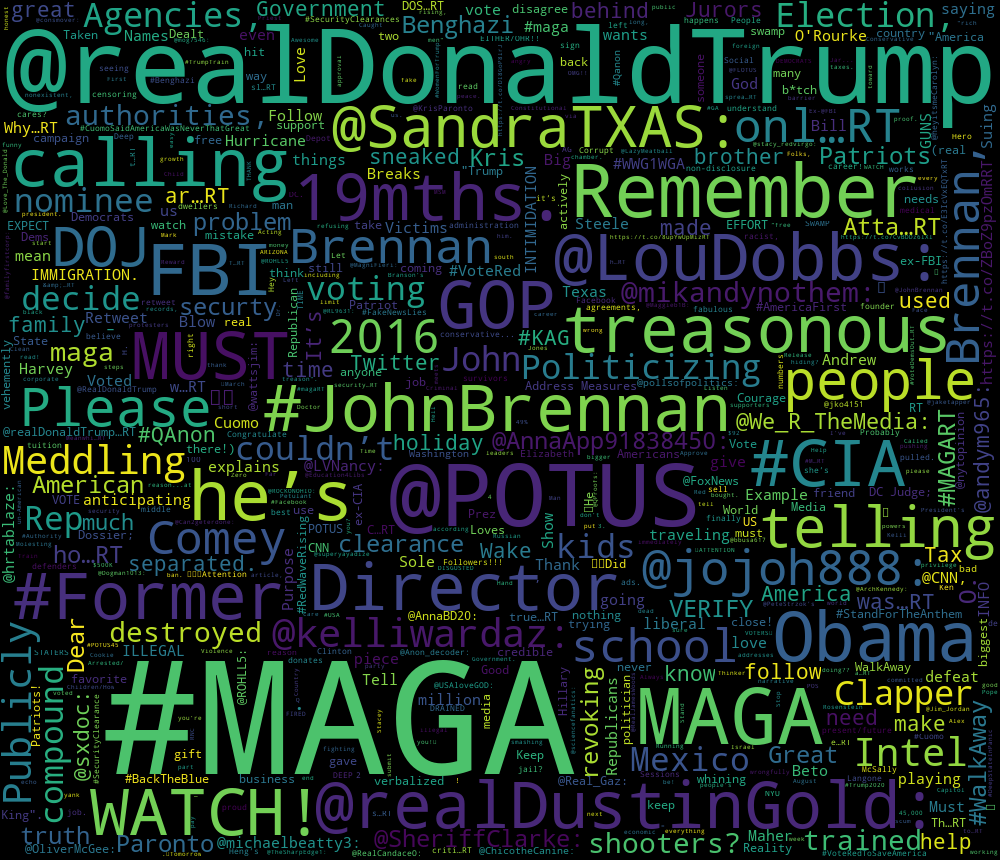
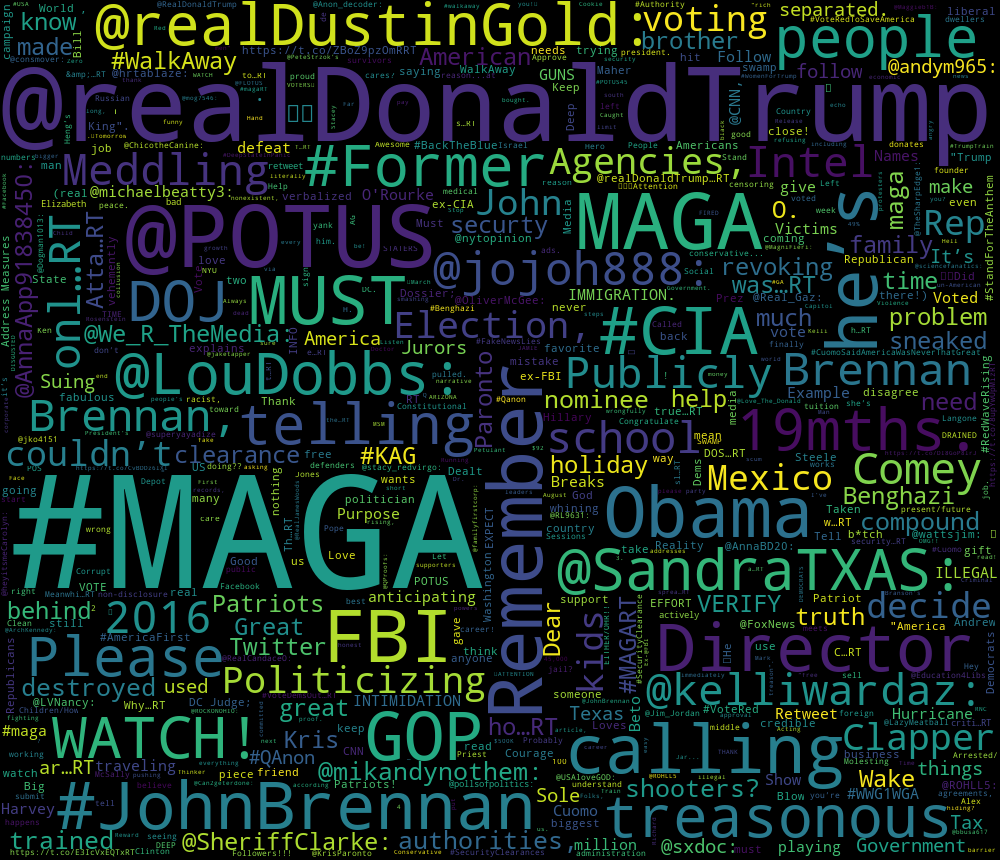
reduced number of words in the wordcloud

diff --git a/streaming_socket.py b/streaming_socket.py
@@ -9,6 +9,8 @@ import random
 from os import path
 import os
 
+# TODO limit the groupby to the same limit as the number of words in the cloud.
+#
 """
 BEFORE running this spark application run the below command in terminal window
 
@@ -48,7 +50,7 @@ def create_word_cloud(pandas_df):
 
     if len(word_count_dict) > 2:
         # NOTE: stopwords are ignored for generate_from_frequencies
-        wordcloud = WordCloud(width=1000, height=860, max_words=600).generate_from_frequencies(word_count_dict)  # WordCloud().generate(text)
+        wordcloud = WordCloud(width=1000, height=860, max_words=300).generate_from_frequencies(word_count_dict)  # WordCloud().generate(text)
         wordcloud.to_file(path.join(d, 'data', 'tweet_wc.png'))
 
 
